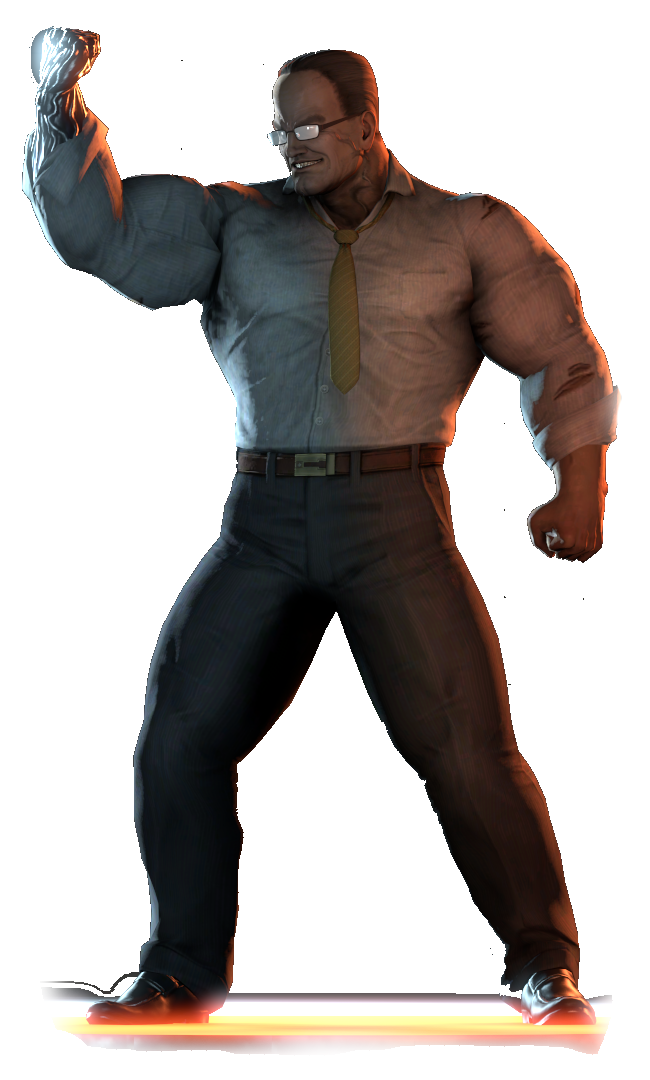
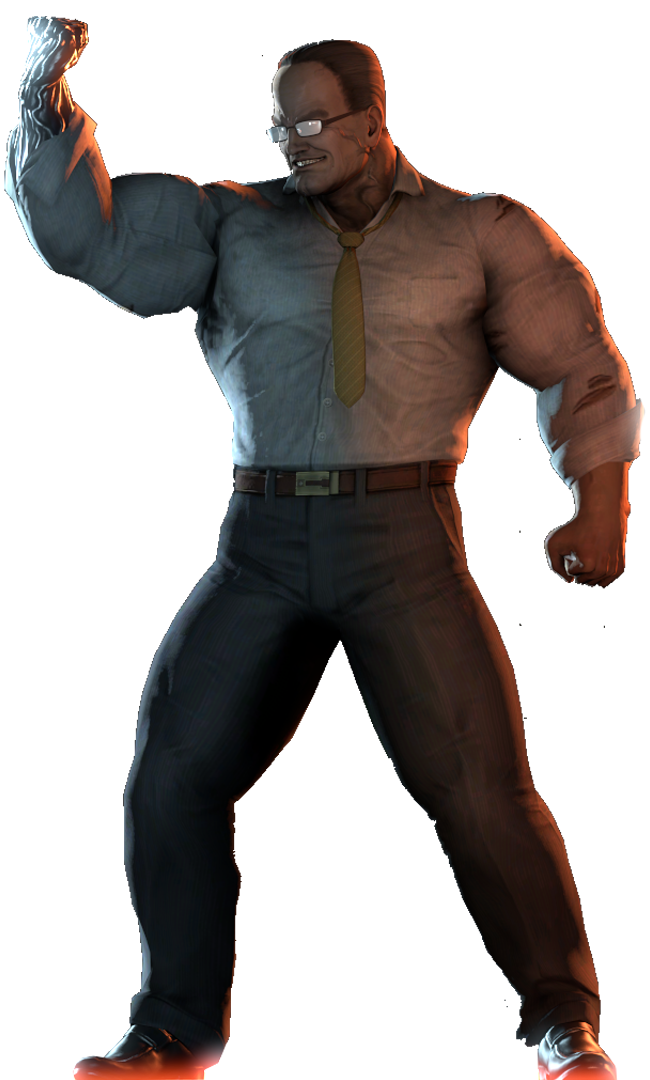
6.1

Changed region(s): [[0.0, 0.0, 1.0, 1.0], [0.5846, 0.6722, 0.6769, 0.7639], [0.2769, 0.1528, 0.4, 0.1833]]

diff --git a/4/script.js b/4/script.js
@@ -6,6 +6,7 @@ mouse = {
 }
 //---------------------------------------------
 //ивенты -- в основном для пушки
+document.oncontextmenu = cmenu; function cmenu() { return false; }
 //просто для позиции мыши
 canvas.addEventListener(`mousemove`, setPos);
 function setPos({layerX, layerY}) {
@@ -181,12 +182,12 @@ function touch(obj1,obj2){
         {
             obj1.kill=true;
             if (obj1.src=="img/a1.png"){
-                obj2.x+=1;
+                obj2.x+=2;
             }
             if (obj2.type2=="moon"){
                 obj2.x-=1;
             }else if (obj2.type2=="sun"){
-                draw(25,10,10,-0.5,0,50,50,"img/df.png","physics","")
+                draw(40,10,10,-0.5,0,50,50,"img/df.png","physics","")
             }
             fdmg(obj2,gun.dmg+obj1.size)
             
@@ -1106,7 +1107,7 @@ function storytale(){
                 phxON=true;
                 physics()
                 lock()
-                draw(83,2,500,-0.1,0,250,400,"img/Senator.png","key","SA")
+                draw(83,2,500,-0.1,0,400,250,"img/Senator.png","key","SA")
                 print("В любом случае")
             break
             case 145:
@@ -1119,7 +1120,7 @@ function storytale(){
                 phxON=true;
                 physics()
                 lock()
-                draw(83,0,500,-0.2,0,250,400,"img/Senator.png","key","SA")
+                draw(83,0,500,-0.2,0,400,250,"img/Senator.png","key","SA")
                 print("Хахаха НЕ ЧУВСТВУЮ")
             break
             case 148:
@@ -1139,7 +1140,7 @@ function storytale(){
                 draw(40,10,10,0,0,100,100,"img/Swall.png","","choice")
                 draw(30,20,10,0,0,100,100,"img/Swall.png","","choice")
                 draw(40,20,10,0,0,100,100,"img/Swall.png","","choice")
-                draw(83,0,1000,-0.2,0,250,400,"img/Senator.png","key","SA")
+                draw(83,0,1000,-0.2,0,400,250,"img/Senator.png","key","SA")
                 print("YOU CAN'T HURT ME, "+player_name+"!")
             break
             case 151:
@@ -1160,7 +1161,7 @@ function storytale(){
                 draw(40,10,10,0,0,100,100,"img/Swall.png","","choice")
                 draw(30,20,10,0,0,100,100,"img/Swall.png","","choice")
                 draw(40,20,10,0,0,100,100,"img/Swall.png","","choice")
-                draw(83,0,1000,-0.3,0,250,400,"img/Senator.png","key","SA")
+                draw(83,0,1000,-0.24,0,400,250,"img/Senator.png","key","SA")
                 print("МЕМЕS")
             break
             case 153:

diff --git a/4/index.html b/4/index.html
@@ -73,6 +73,9 @@
             color: rgb(255, 255, 255);
             background-color: rgba(1, 1, 1, 0.8);
         }
+        canvas{
+            -moz-user-select: none; -webkit-user-select: none; -ms-user-select: none; user-select: none;
+        }
         /* кнопка */
 button {
   position: relative;
